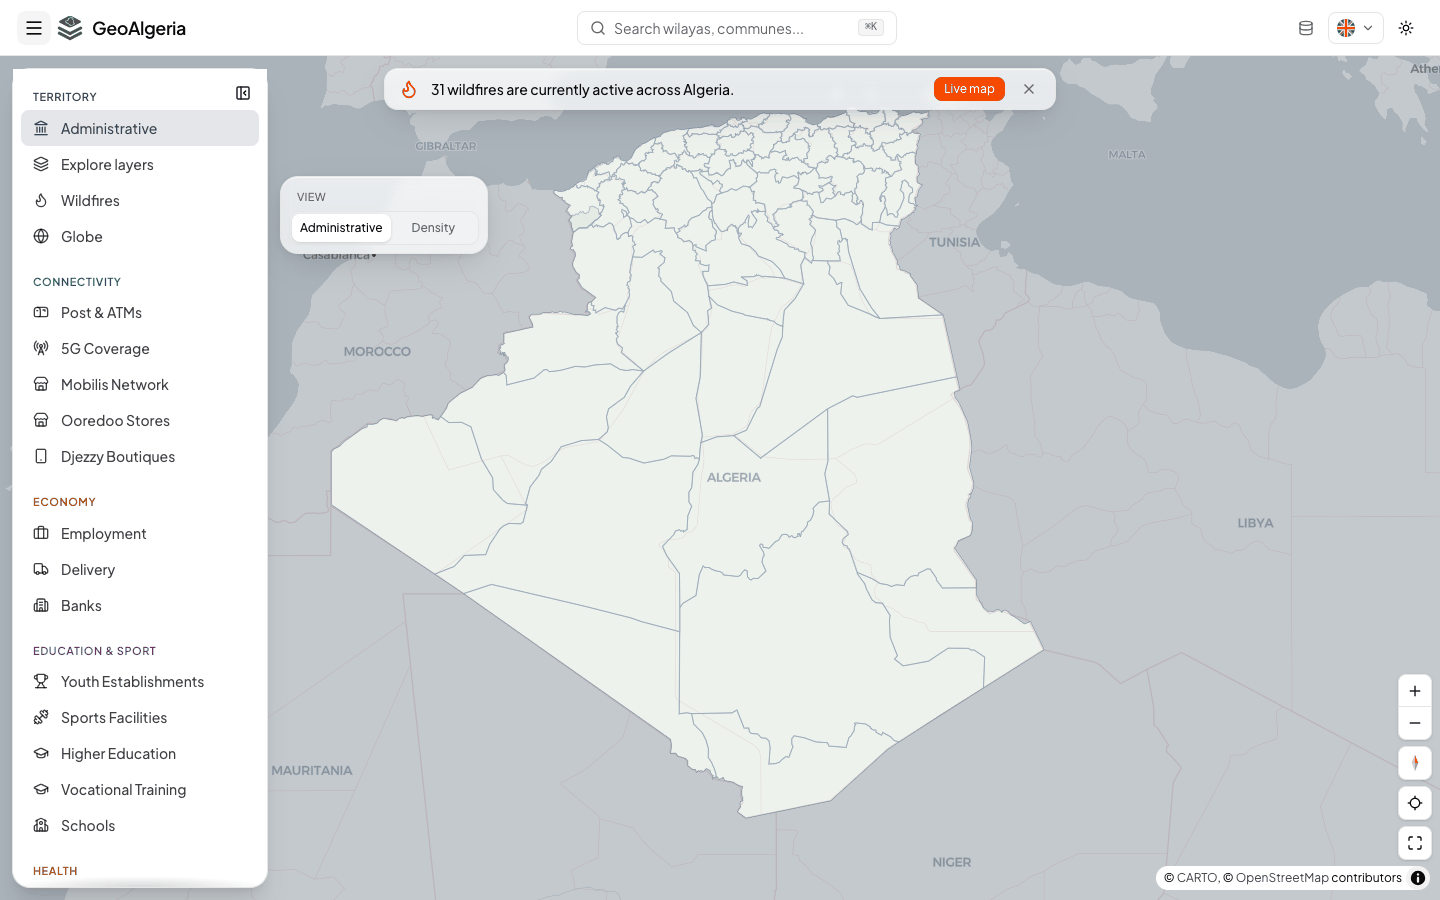
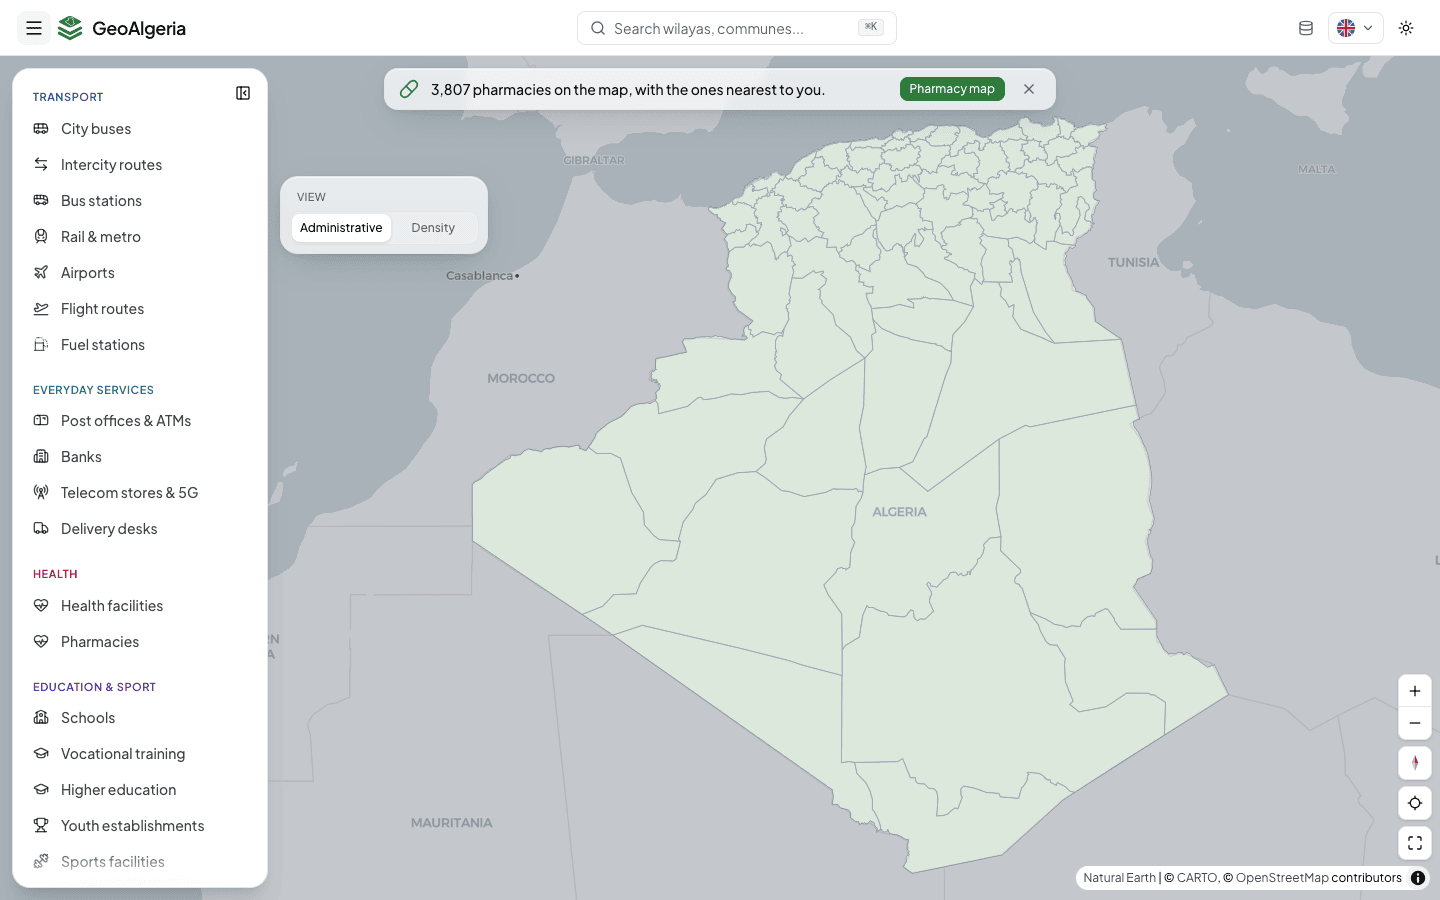
docs(readme): refresh screenshots, swap fires shot for flights, add Arabic mobile shot

diff --git a/README.ar.md b/README.ar.md
@@ -30,13 +30,16 @@
 
 - **[أطلس متعدّد القطاعات](https://geoalgeria.com):** كل القطاعات على خريطة واحدة، من مكاتب البريد إلى المساجد والمستشفيات، مع عرض للكثافة حسب الولاية.
 - **[خريطة الحرائق المباشرة](https://geoalgeria.com/fires):** نقاط الحرارة من أقمار NASA FIRMS إلى جانب النشرات الرسمية للحماية المدنية، محدّثة طوال موسم الحرائق (أُطلقت في 23 جويلية 2026).
+- **[خريطة الرحلات الجوية](https://geoalgeria.com/flights):** كل الخطوط المباشرة للجوية الجزائرية على كرة أرضية، مع تمييز المؤكّدة والمدرجة والمعلنة.
 - **[3,951 صفحة لكل ولاية](https://geoalgeria.com/wilaya):** صفحة لكل ولاية وكل قطاع، مصمّمة لتظهر في البحث.
 - **[تركيب الطبقات](https://geoalgeria.com/explore):** فعّل القطاعات وأوقفها واقرأها معًا على الخريطة نفسها.
 - **بحث Command-K:** انتقل إلى أي ولاية أو بلدية مباشرة من لوحة المفاتيح.
 - **العربية والفرنسية والإنجليزية:** الواجهة بالكامل، بدعم كامل للكتابة من اليمين إلى اليسار في العربية.
 - **[مصدر لكل سجل](https://geoalgeria.com/sources):** كل نقطة تُظهر مصدرها وتاريخ آخر تغيير فيها. اطّلع على [المصادر](https://geoalgeria.com/sources) و[سجل التغييرات](https://geoalgeria.com/changelog).
 
-[![خريطة الحرائق المباشرة على geoalgeria.com/fires](assets/screenshots/fires-map.png)](https://geoalgeria.com/fires)
+[![خريطة الرحلات الجوية على geoalgeria.com/flights](assets/screenshots/flights-map.png)](https://geoalgeria.com/flights)
+
+<p align="center"><a href="https://geoalgeria.com/ar/commune/16-casbah"><img src="assets/screenshots/commune-casbah-ar-mobile.jpg" alt="صفحة بلدية القصبة بالعربية على الهاتف في geoalgeria.com" width="560"></a></p>
 
 ## البيانات
 

diff --git a/README.fr.md b/README.fr.md
@@ -28,13 +28,16 @@ GeoAlgeria est un projet ouvert, développé en solo, avec un seul objectif : d
 
 - **[Atlas multisectoriel](https://geoalgeria.com) :** tous les secteurs sur une même carte, des bureaux de poste aux mosquées et aux hôpitaux, avec une vue de densité par wilaya.
 - **[Carte des feux en direct](https://geoalgeria.com/fires) :** les points chauds satellite NASA FIRMS aux côtés des bulletins officiels de la Protection Civile, mis à jour tout au long de la saison des feux (lancée le 23 juillet 2026).
+- **[Globe des lignes aériennes](https://geoalgeria.com/flights) :** toutes les lignes sans escale d'Air Algérie sur un globe, marquées vérifiées, répertoriées ou annoncées.
 - **[3 951 pages par wilaya](https://geoalgeria.com/wilaya) :** une page pour chaque wilaya et chaque secteur, pensée pour la recherche.
 - **[Superposition de couches](https://geoalgeria.com/explore) :** activez et désactivez les secteurs et lisez-les ensemble sur la même carte.
 - **Recherche Command-K :** accédez à n'importe quelle wilaya ou commune directement au clavier.
 - **Arabe, français et anglais :** toute l'interface, entièrement en écriture de droite à gauche en arabe.
 - **[Provenance sur chaque enregistrement](https://geoalgeria.com/sources) :** chaque point indique d'où il provient et quand il a changé pour la dernière fois. Voir les [sources](https://geoalgeria.com/sources) et le [journal des modifications](https://geoalgeria.com/changelog).
 
-[![La carte des feux en direct sur geoalgeria.com/fires](assets/screenshots/fires-map.png)](https://geoalgeria.com/fires)
+[![Le globe des lignes aériennes sur geoalgeria.com/flights](assets/screenshots/flights-map.png)](https://geoalgeria.com/flights)
+
+<p align="center"><a href="https://geoalgeria.com/ar/commune/16-casbah"><img src="assets/screenshots/commune-casbah-ar-mobile.jpg" alt="La page de la commune de la Casbah en arabe sur mobile, sur geoalgeria.com" width="560"></a></p>
 
 ## Les données
 

diff --git a/README.md b/README.md
@@ -28,13 +28,16 @@ GeoAlgeria is a solo-built, open project with one goal: to become the first and 
 
 - **[Cross-sector atlas](https://geoalgeria.com):** every sector on a single map, from post offices to mosques to hospitals, with a per-wilaya density view.
 - **[Live wildfire map](https://geoalgeria.com/fires):** NASA FIRMS satellite hotspots alongside official Civil Protection bulletins, updated through the fire season (launched 23 July 2026).
+- **[Flight routes globe](https://geoalgeria.com/flights):** every nonstop Air Algérie route on a globe, marked verified, listed, or announced.
 - **[3,951 per-wilaya pages](https://geoalgeria.com/wilaya):** one page for every wilaya and sector, built to be searchable.
 - **[Layer stacking](https://geoalgeria.com/explore):** switch sectors on and off and read them together on the same map.
 - **Command-K search:** jump to any wilaya or commune straight from the keyboard.
 - **Arabic, French, and English:** the entire interface, fully right-to-left in Arabic.
 - **[Provenance on every record](https://geoalgeria.com/sources):** each point shows where it came from and when it last changed. See the [sources](https://geoalgeria.com/sources) and [changelog](https://geoalgeria.com/changelog).
 
-[![The live wildfire map at geoalgeria.com/fires](assets/screenshots/fires-map.png)](https://geoalgeria.com/fires)
+[![The flight routes globe at geoalgeria.com/flights](assets/screenshots/flights-map.png)](https://geoalgeria.com/flights)
+
+<p align="center"><a href="https://geoalgeria.com/ar/commune/16-casbah"><img src="assets/screenshots/commune-casbah-ar-mobile.jpg" alt="The Casbah commune page in Arabic on a phone at geoalgeria.com" width="560"></a></p>
 
 ## The data
 
